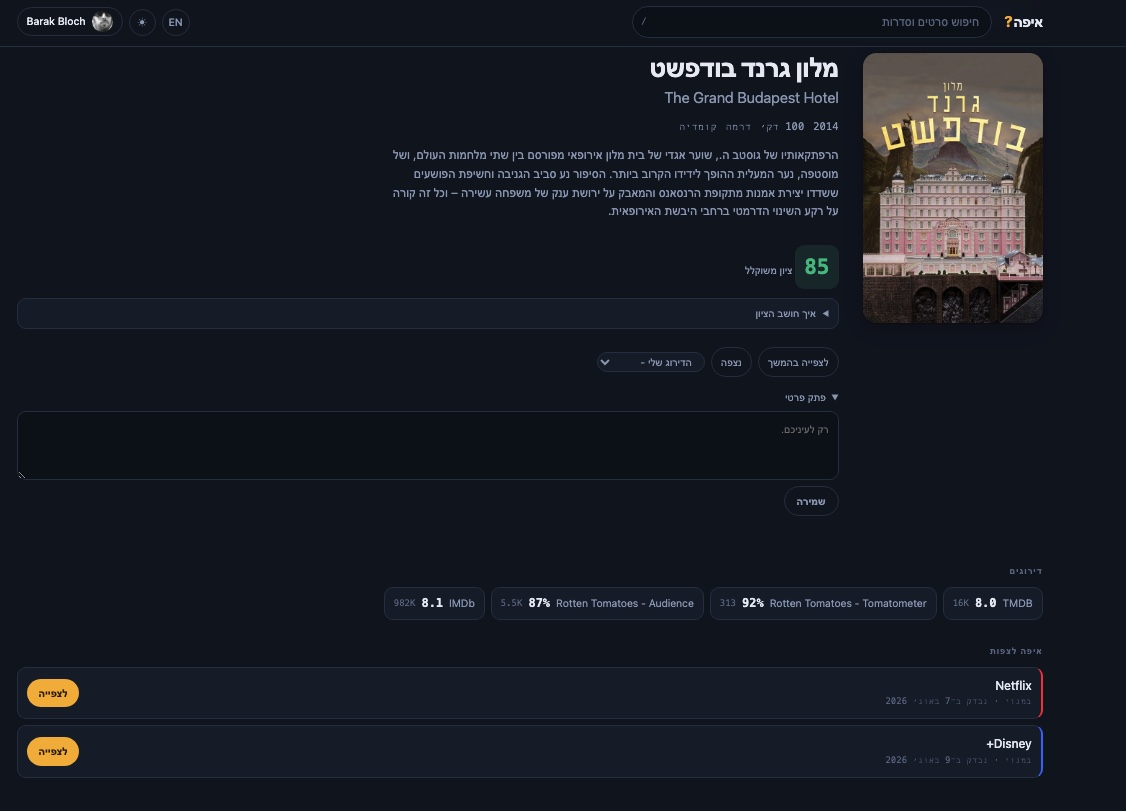
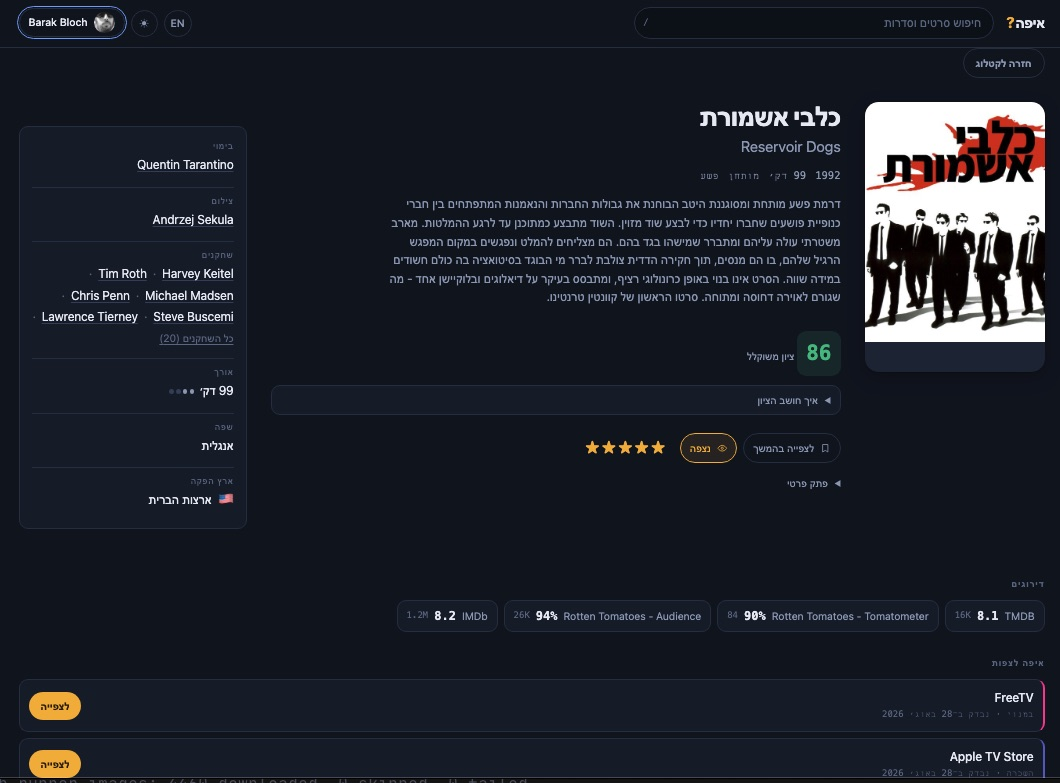
docs: show the Manage tab and the search box, and a title page that is current
The title page shot predates the stars and the two list buttons, so it showed a
dropdown of ten numbers next to controls that have since changed shape. It is
replaced with one taken today.

Two the gallery never had. The Manage tab is the whole operator story in one
picture - what the catalog is missing, and a row per service - and nothing in
the README showed it. The search box is the other: suggestions across both
languages, and the people, who exist in the product precisely because they were
otherwise reachable only through a title they had worked on.

The my-list shot still shows the old rating control. Its caption no longer
claims otherwise, and the picture wants retaking.

diff --git a/README.md b/README.md
@@ -69,8 +69,9 @@ people actually trust, and puts a search box in front of it.
 - **It remembers what left.** A title that vanished from a service is badged, not deleted -
   and a service Eifo no longer tracks is badged differently, because "it's gone" and "we
   can't vouch for this any more" are different facts.
-- **Personal lists.** Sign in with Google or X to keep watched / want-to-watch lists, rate
-  1-10, and write private notes. Notes are private always, including on a public profile.
+- **Personal lists.** Sign in with Google or X to keep watched and want-to-watch lists -
+  a title can be on both - rate in stars and halves, and write private notes. Notes are
+  private always, including on a public profile.
 - **Private by default.** New accounts are invisible. Going public is an explicit choice
   with copy that spells out exactly what becomes visible - and your email, sign-in identity,
   notes and chosen services never do.
@@ -98,16 +99,28 @@ everyone with no sign-in at all.
     </td>
     <td width="50%" valign="top">
       <img src="docs/screenshots/my-list.jpg" alt="A personal list showing rated titles" />
-      <br /><sub><b>Keep watched / want-to-watch lists and rate 1-10.</b></sub>
+      <br /><sub><b>Keep watched and want-to-watch lists, with your own rating on each.</b></sub>
     </td>
   </tr>
 </table>
 
 <br />
 
-<img src="docs/screenshots/title.jpg" width="90%" alt="A title page with ratings from several providers, a private note and where to watch it" />
+<img src="docs/screenshots/suggest.jpg" width="45%" alt="The search box open, suggesting five titles and a person, each with its poster and year" />
+
+<sub><b>Search as you type, across both languages - and the people who made them, who are otherwise reachable only through a title they worked on.</b></sub>
+
+<br /><br />
+
+<img src="docs/screenshots/title.jpg" width="90%" alt="A title page: ratings from IMDb, Rotten Tomatoes and TMDB side by side, a star rating, watched and want-to-watch buttons, and where to watch it" />
 
 <sub><b>Every title: its ratings side by side, a private note, and where to watch it in Israel.</b></sub>
+
+<br /><br />
+
+<img src="docs/screenshots/manage.jpg" width="90%" alt="The Manage tab: completeness percentages across the catalog, and a table of every source with its coverage, last sync and on-off switch" />
+
+<sub><b>The operator's tab, for anyone running their own: how complete the catalog is, and one row per service - coverage, last sync, and the switch that turns it on.</b></sub>
 
 </div>
 
